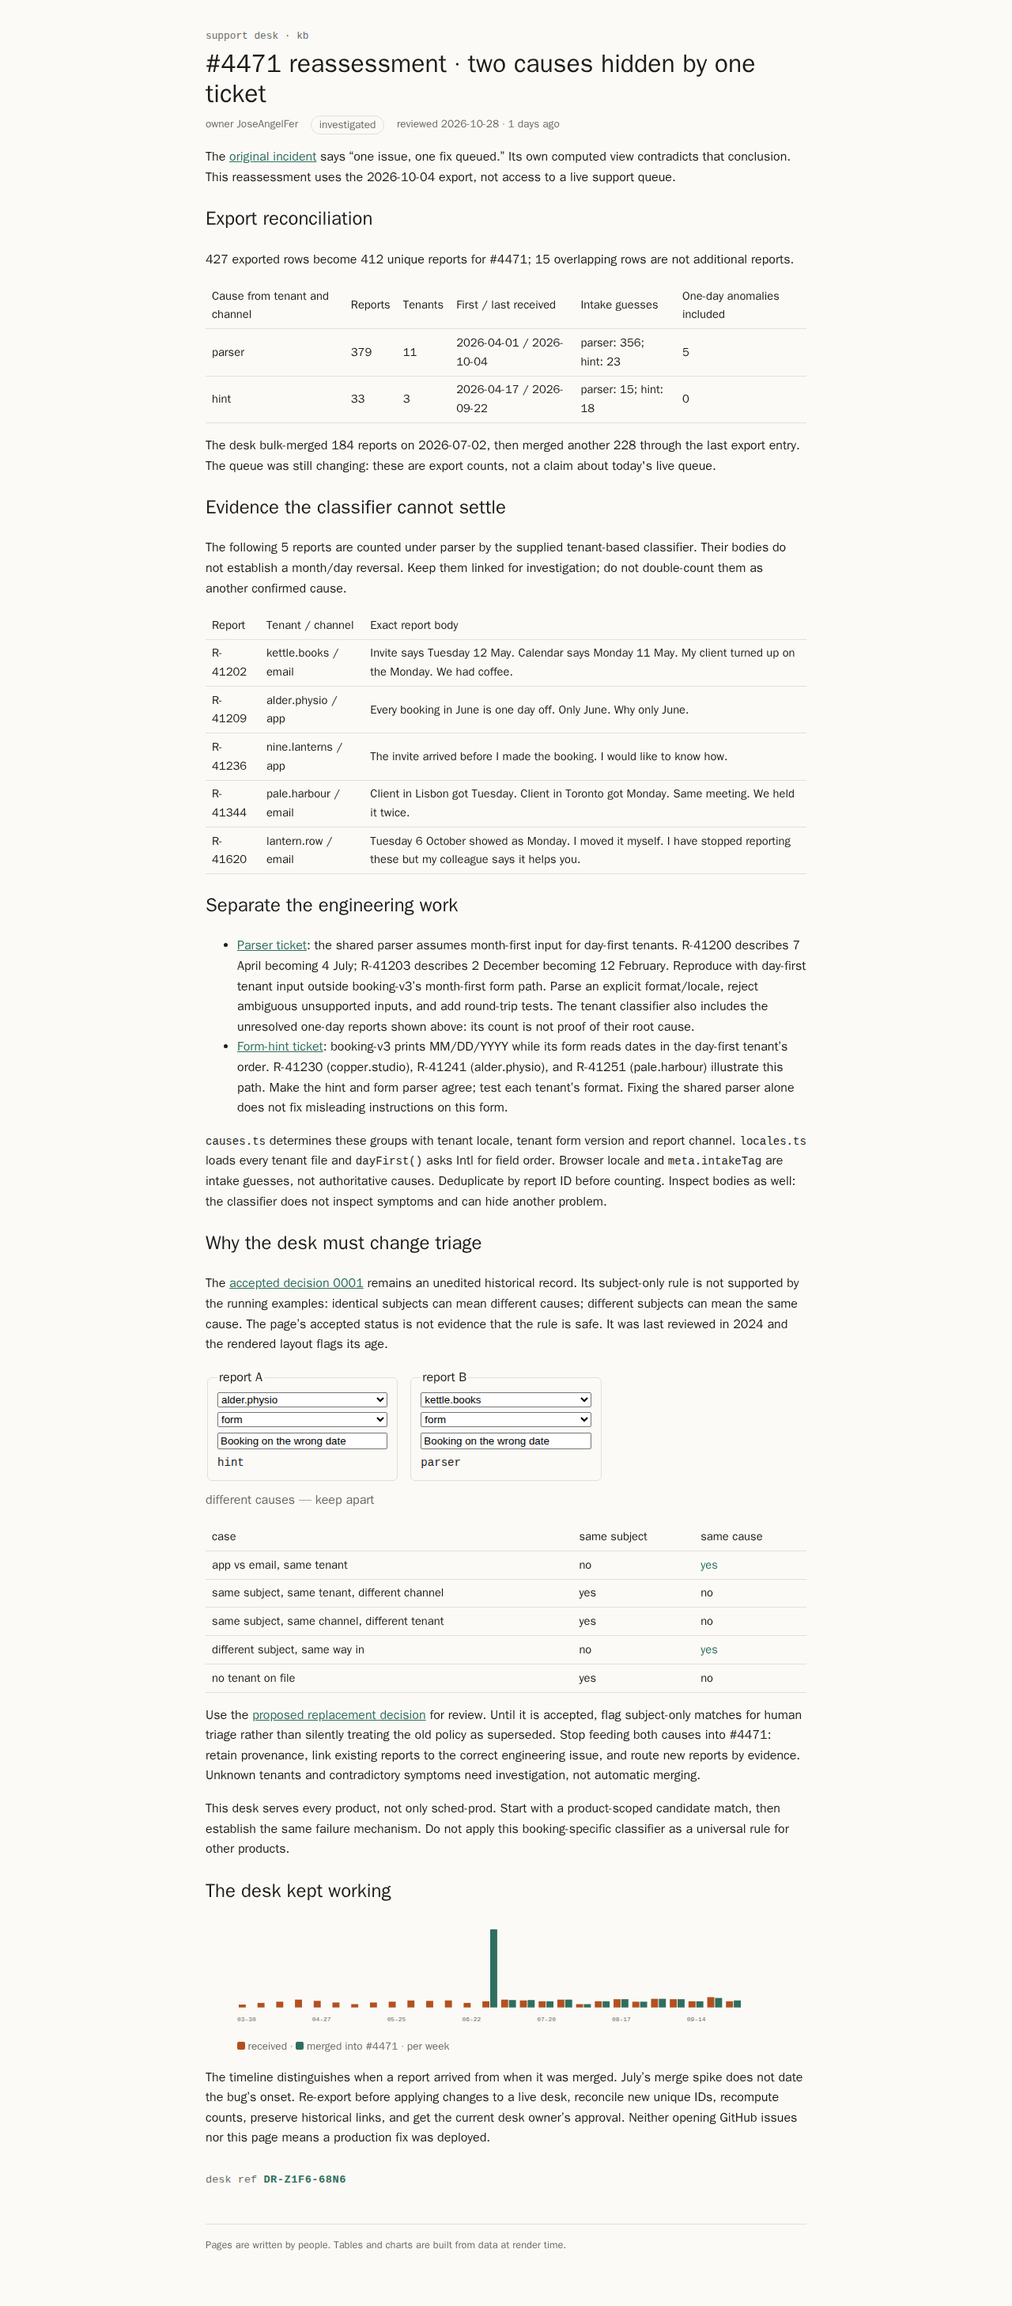
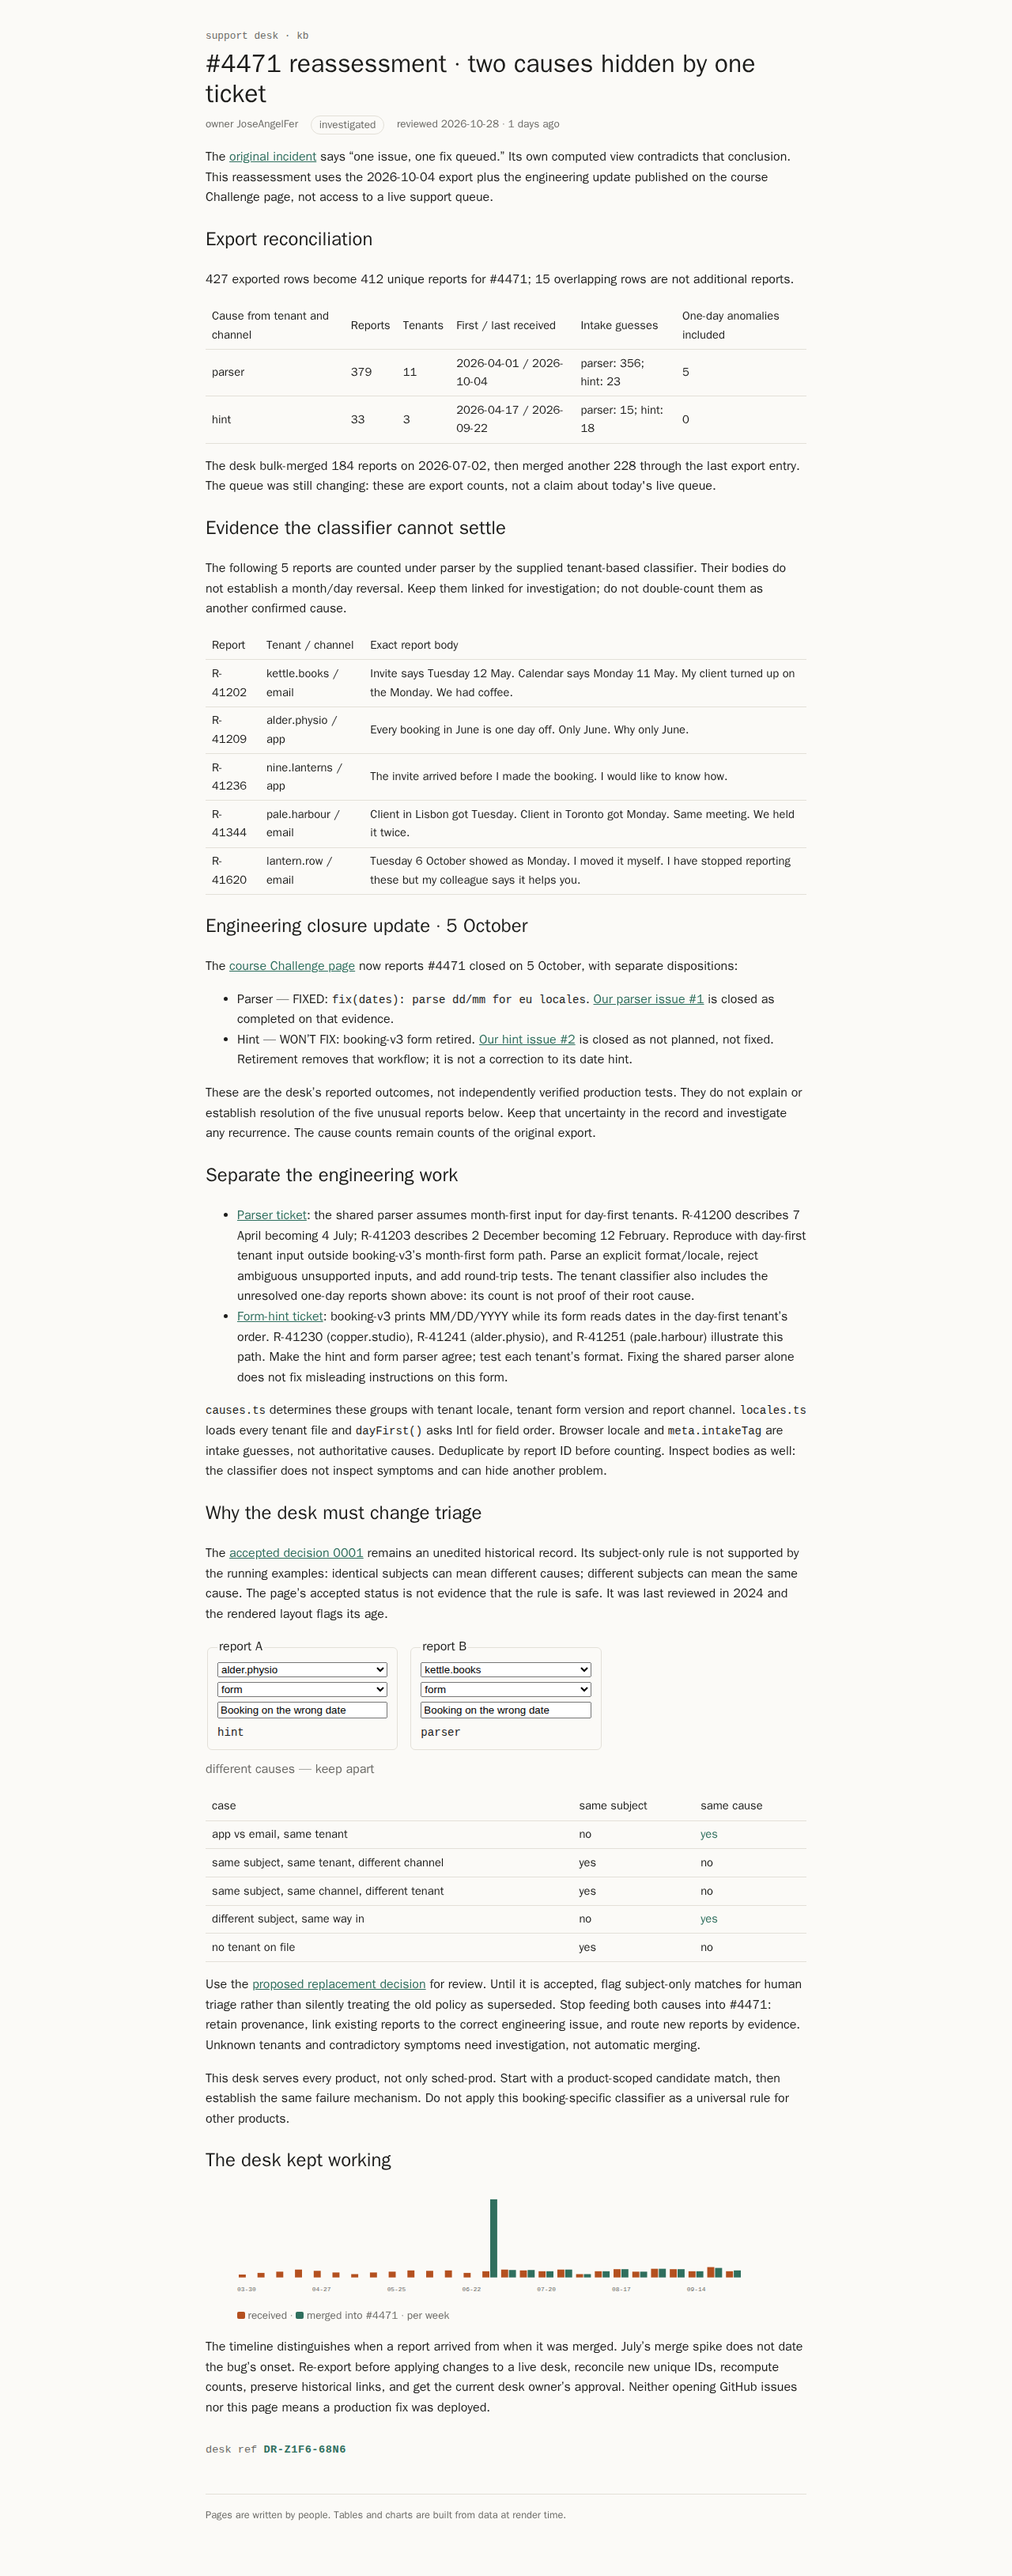
Record desk closure: parser fixed, retired form not planned

Changed region(s): [[0.1875, 0.0, 0.7812, 0.8429], [0.1875, 0.8429, 0.7812, 0.9678]]

diff --git a/rendered/kb/incidents/4471-reassessment/index.html b/rendered/kb/incidents/4471-reassessment/index.html
@@ -45,4 +45,4 @@
   .stamp.s-rZ8url3kVqxe b:where(.s-rZ8url3kVqxe) { color: var(--accent); letter-spacing: 0.04em; }
   .missing.s-rZ8url3kVqxe { color: var(--warn); }
  .s-rZ8url3kVqxe{}
[2 lines of base64/hex data omitted]

diff --git a/README.md b/README.md
@@ -12,7 +12,7 @@ Public repo: https://github.com/JoseAngelFer/megadev-s01e03-what-it-shows
 
 Reproduce with `npm ci && npm run build` (Node 22). Build runs the actual exported TypeScript helpers through Vite and compiles .svx/Svelte with mdsvex, including the original layout, components and RenderStamp. HTML is a static server-rendered snapshot; the explorer's initial state and example table are rendered, but controls are not hydrated. Route links assume the `rendered/` directory is served with directory indexes at the web root. No hosted site or GitHub Pages is required.
 
-The original accepted decision is unchanged. Incident and triage pages have correction/review notices; proposed decision 0002 awaits desk approval. No production system has been changed. Counts are export-specific, not live. Five unusual reports remain explicitly unresolved within the classifier's parser total.
+The original accepted decision is unchanged. Incident and triage pages have correction/review notices; proposed decision 0002 awaits desk approval. No production system has been changed by this harness. The desk later reported #4471 closed 5 October: parser FIXED (`fix(dates): parse dd/mm for eu locales`), hint WON'T FIX (booking-v3 retired). Issue #1 is closed as completed; issue #2 as not planned. These are reported outcomes, not independently verified fixes. Counts are export-specific, not live. Five unusual reports remain explicitly unresolved within the classifier's parser total.
 
 ---
 
